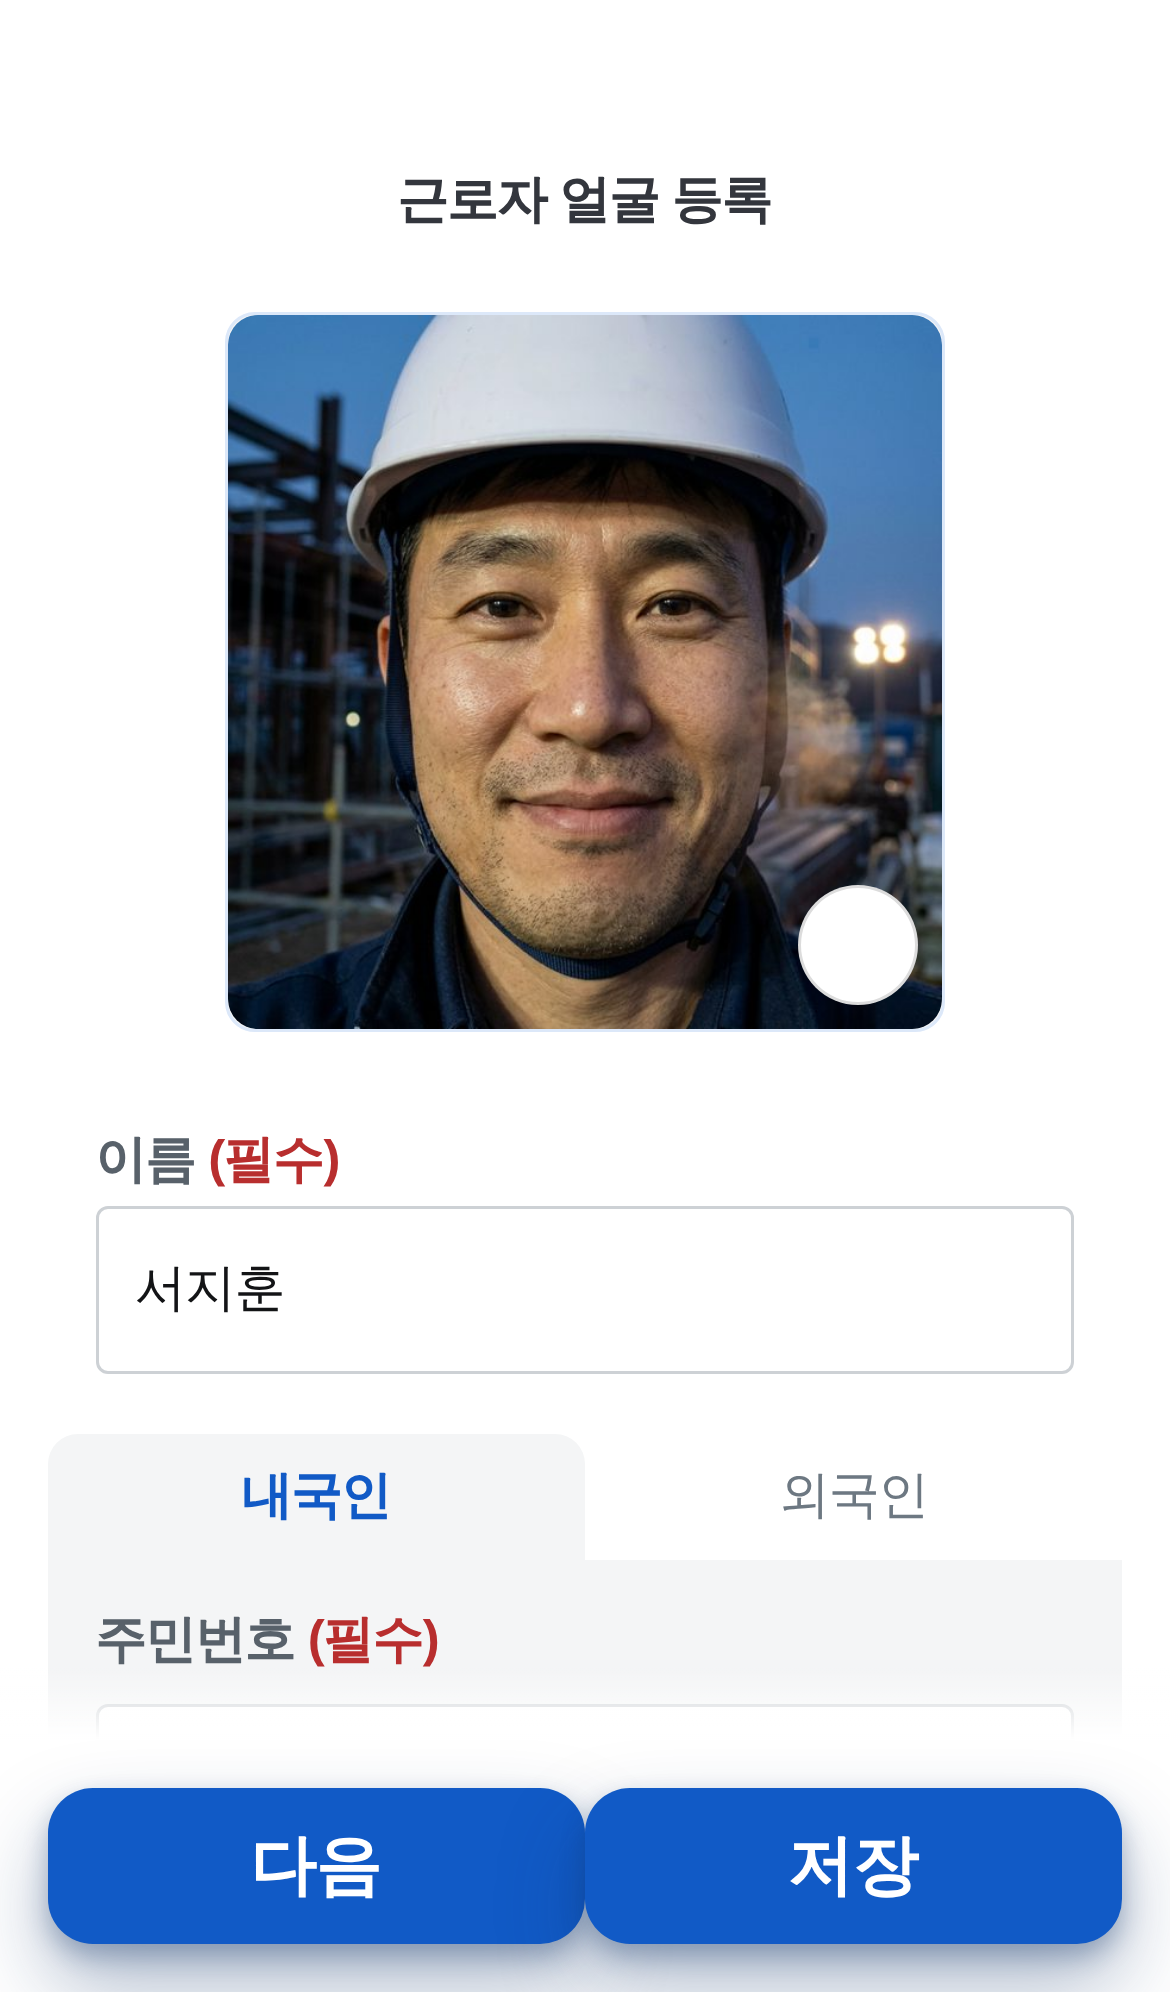
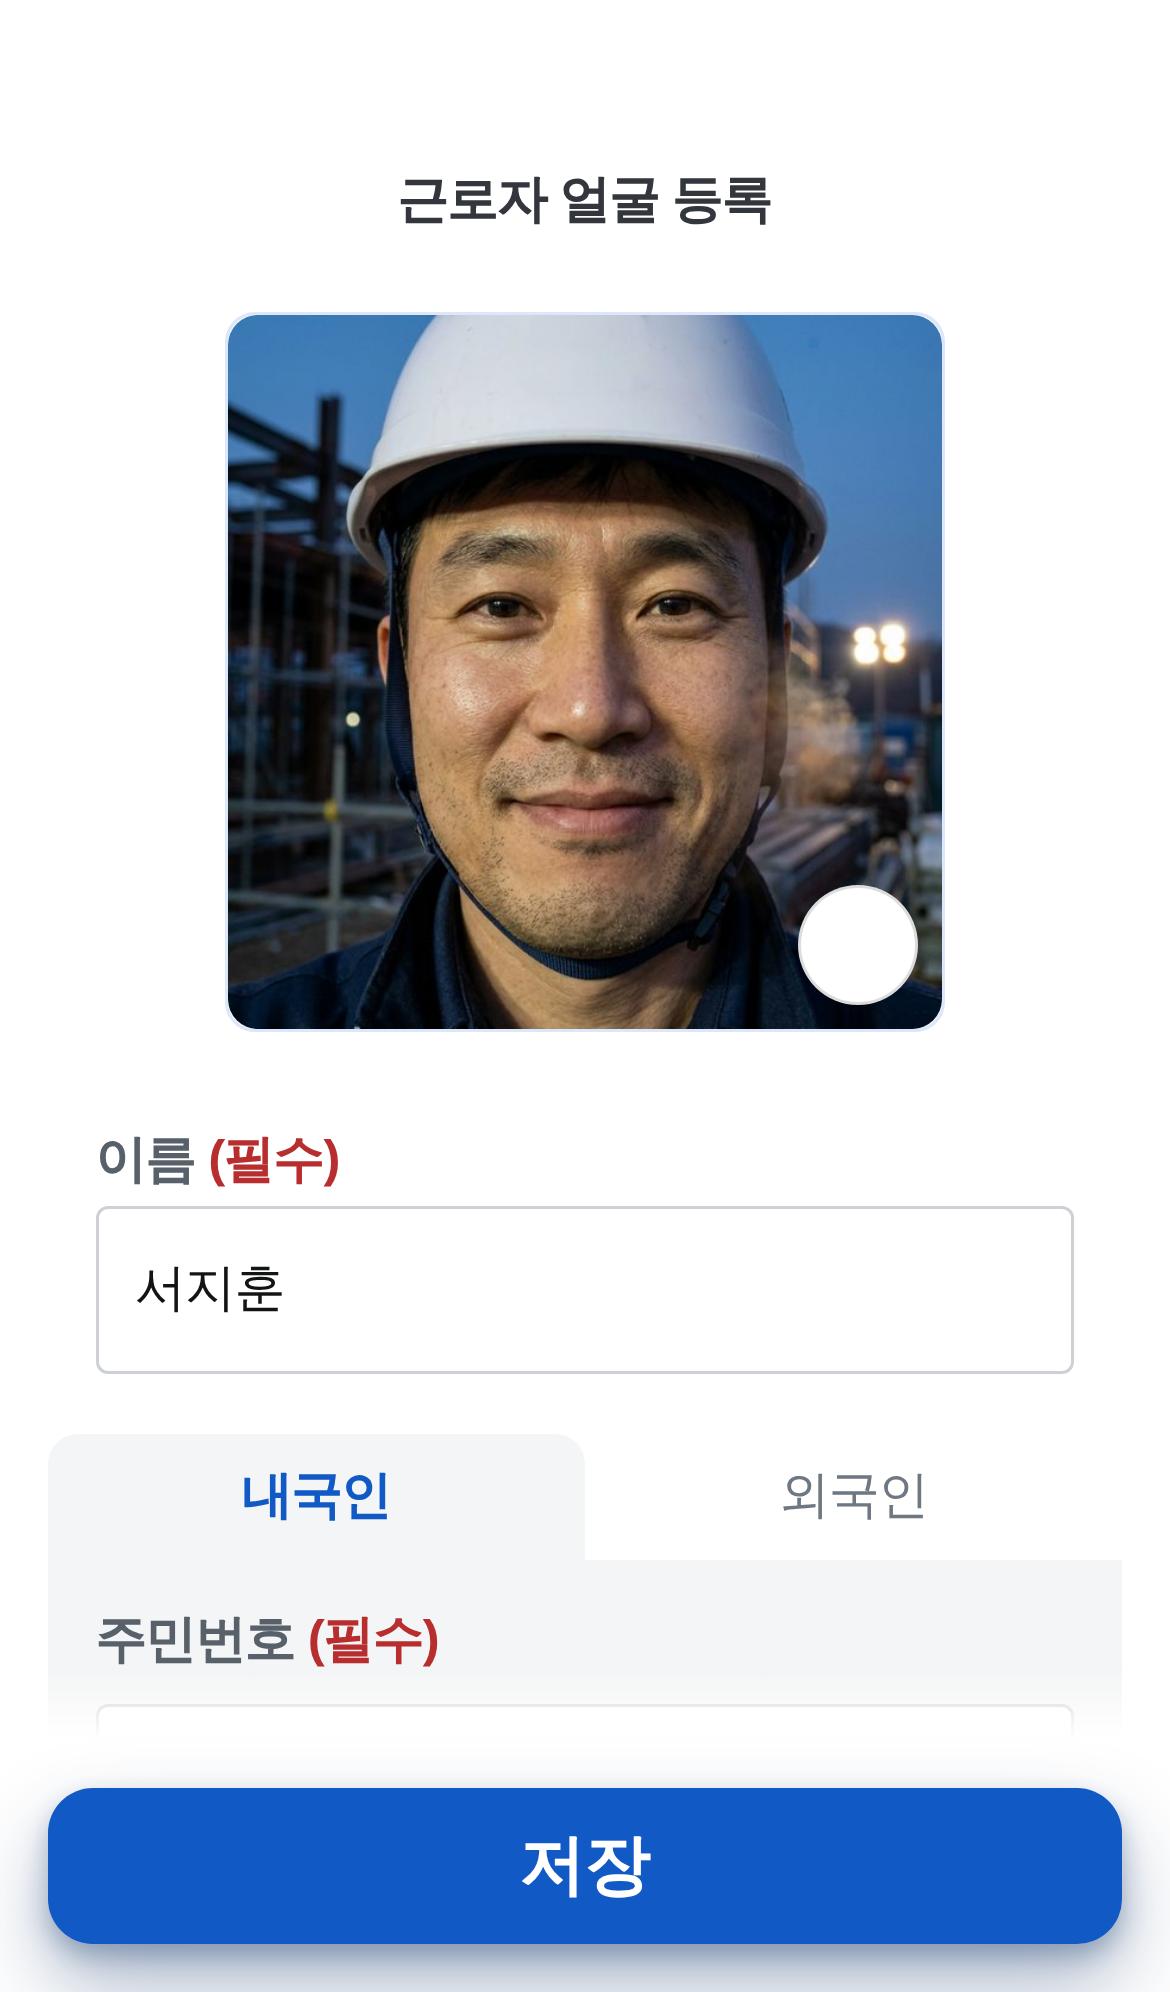
얼굴 차례는 그림이 바탕을 채우고, 할 일은 바닥 버튼 하나다
이 자리에서 할 일은 하나뿐이라 그림을 작은 카드에 가둘 까닭이 없다.
네모 테와 모서리를 걷고 본문을 다 쓴다.

- 묻는 말은 '근로자 얼굴을 / 등록해주세요' 두 줄이다.
- 카드 안의 글(얼굴 등록하기 · 터치 후…)은 걷는다 — 그 말은 바닥 버튼이
  하고 있어, 두면 한 화면에서 같은 말을 두 번 한다.
- 바닥 버튼이 '얼굴 등록하기' 다. 적은 것을 확인하는 버튼이 아니라 **할
  일**이라, 채울 것을 기다리지 않고 처음부터 보인다(다음 · 저장과 다르다).
- 받을 칸이 없으니 초점도 주지 않는다 — 기기 자판이 올라오지 않는다.

⚠ 빛은 **본문이 깐다**. 그림 칸에만 깔았더니 묻는 줄 아래에서 끊겨 가로로
금이 그어졌다 — 가장자리에서 화면 흰색으로 풀리게 두고, 본문 전체에 깐다.
⚠ 바닥 버튼은 flex 라 hidden 만으로는 안 덮인다(.act__b[hidden]) — 차례마다
서는 버튼이 달라, 셋이 한 줄에 나란히 섰다.

화면설명 — 규칙 11(보이지 않는 동작: 그림을 클릭해도 버튼과 같은 데로 가는
것, 자판이 올라오지 않는 것), 규칙 2(「없다」는 그 자리에 설 수 있었던
것만 — 다른 차례에서는 자판이 올라온다).

검사: 얼굴 차례 바탕 390×624 꽉 참 · 초점 없음 · 바닥 버튼 '얼굴 등록하기'
하나 · 나머지 여섯 자리 그대로 · validate ✅ · 앵커 110/76 탈 0 ·
anchback 186 · 0 · 흐름 끝까지 · cal__n--on 1

Claude-Session: https://claude.ai/code/session_01Mo5aPUH3u6bJkjNTNVj2HG

Changed region(s): [[0.4615, 0.8715, 0.5538, 0.996], [0.6769, 0.9026, 0.8, 0.9649], [0.2154, 0.9026, 0.3385, 0.9649]]

diff --git a/face-attendance-app.html b/face-attendance-app.html
@@ -1373,7 +1373,7 @@
          어디부터 손대야 하는지를 매번 고르게 된다 — 차례를 정해 하나씩 받고,
          그 뒤에 나머지를 연다. 보이는 줄은 지금 묻는 하나뿐이다(js 의 flow) -->
     <div class="flow__q" role="status" aria-live="polite">
-      <p class="flow__q__t" data-q="face">얼굴을 등록해 주세요</p>
+      <p class="flow__q__t" data-q="face">근로자 얼굴을<br>등록해주세요</p>
       <p class="flow__q__t" data-q="ireum">이름을 입력해 주세요</p>
       <p class="flow__q__t" data-q="idno">주민번호를 입력해 주세요</p>
       <p class="flow__q__t" data-q="yeonrak">연락처를 입력해 주세요</p>
@@ -1462,6 +1462,9 @@
        '눌러 봐야 아무 일도 없는 버튼' 이 내내 엄지 밑에 있다.
        자리는 처음부터 지킨다 — 덜어 내면 다 채운 뒤에 버튼이 솟아 화면이 뛴다 -->
   <div class="act act--float act--void" aria-hidden="true">
+    <!-- 얼굴 차례에는 이 버튼이 그 자리의 할 일이다 — 바탕을 채운 그림은
+         눌러도 같은 데로 가지만, 무엇을 하는 자리인지는 버튼이 말한다 -->
+    <button class="act__b act__b--on" type="button" data-act="face" data-go="m-ready" hidden>얼굴 등록하기</button>
     <button class="act__b act__b--on" type="button" data-act="next">다음</button>
     <button class="act__b act__b--on" type="button" data-act="save" hidden>저장</button>
   </div>
@@ -1496,7 +1499,7 @@
          어디부터 손대야 하는지를 매번 고르게 된다 — 차례를 정해 하나씩 받고,
          그 뒤에 나머지를 연다. 보이는 줄은 지금 묻는 하나뿐이다(js 의 flow) -->
     <div class="flow__q" role="status" aria-live="polite">
-      <p class="flow__q__t" data-q="face">얼굴을 등록해 주세요</p>
+      <p class="flow__q__t" data-q="face">근로자 얼굴을<br>등록해주세요</p>
       <p class="flow__q__t" data-q="ireum">이름을 입력해 주세요</p>
       <p class="flow__q__t" data-q="idno">주민번호를 입력해 주세요</p>
       <p class="flow__q__t" data-q="yeonrak">연락처를 입력해 주세요</p>
@@ -1548,6 +1551,9 @@
   </main>
 
   <div class="act act--float">
+    <!-- 얼굴 차례에는 이 버튼이 그 자리의 할 일이다 — 바탕을 채운 그림은
+         눌러도 같은 데로 가지만, 무엇을 하는 자리인지는 버튼이 말한다 -->
+    <button class="act__b act__b--on" type="button" data-act="face" data-go="m-ready" hidden>얼굴 등록하기</button>
     <button class="act__b act__b--on" type="button" data-act="next">다음</button>
     <button class="act__b act__b--on" type="button" data-act="save" hidden>저장</button>
   </div>
@@ -1572,7 +1578,7 @@
          어디부터 손대야 하는지를 매번 고르게 된다 — 차례를 정해 하나씩 받고,
          그 뒤에 나머지를 연다. 보이는 줄은 지금 묻는 하나뿐이다(js 의 flow) -->
     <div class="flow__q" role="status" aria-live="polite">
-      <p class="flow__q__t" data-q="face">얼굴을 등록해 주세요</p>
+      <p class="flow__q__t" data-q="face">근로자 얼굴을<br>등록해주세요</p>
       <p class="flow__q__t" data-q="ireum">이름을 입력해 주세요</p>
       <p class="flow__q__t" data-q="idno">외국인등록번호를 입력해 주세요</p>
       <p class="flow__q__t" data-q="yeonrak">연락처를 입력해 주세요</p>
@@ -1656,6 +1662,9 @@
        '눌러 봐야 아무 일도 없는 버튼' 이 내내 엄지 밑에 있다.
        자리는 처음부터 지킨다 — 덜어 내면 다 채운 뒤에 버튼이 솟아 화면이 뛴다 -->
   <div class="act act--float act--void" aria-hidden="true">
+    <!-- 얼굴 차례에는 이 버튼이 그 자리의 할 일이다 — 바탕을 채운 그림은
+         눌러도 같은 데로 가지만, 무엇을 하는 자리인지는 버튼이 말한다 -->
+    <button class="act__b act__b--on" type="button" data-act="face" data-go="m-ready" hidden>얼굴 등록하기</button>
     <button class="act__b act__b--on" type="button" data-act="next">다음</button>
     <button class="act__b act__b--on" type="button" data-act="save" hidden>저장</button>
   </div>
@@ -1688,7 +1697,7 @@
          어디부터 손대야 하는지를 매번 고르게 된다 — 차례를 정해 하나씩 받고,
          그 뒤에 나머지를 연다. 보이는 줄은 지금 묻는 하나뿐이다(js 의 flow) -->
     <div class="flow__q" role="status" aria-live="polite">
-      <p class="flow__q__t" data-q="face">얼굴을 등록해 주세요</p>
+      <p class="flow__q__t" data-q="face">근로자 얼굴을<br>등록해주세요</p>
       <p class="flow__q__t" data-q="ireum">이름을 입력해 주세요</p>
       <p class="flow__q__t" data-q="idno">여권번호와 생년월일을 입력해 주세요</p>
       <p class="flow__q__t" data-q="yeonrak">연락처를 입력해 주세요</p>
@@ -1779,6 +1788,9 @@
        '눌러 봐야 아무 일도 없는 버튼' 이 내내 엄지 밑에 있다.
        자리는 처음부터 지킨다 — 덜어 내면 다 채운 뒤에 버튼이 솟아 화면이 뛴다 -->
   <div class="act act--float act--void" aria-hidden="true">
+    <!-- 얼굴 차례에는 이 버튼이 그 자리의 할 일이다 — 바탕을 채운 그림은
+         눌러도 같은 데로 가지만, 무엇을 하는 자리인지는 버튼이 말한다 -->
+    <button class="act__b act__b--on" type="button" data-act="face" data-go="m-ready" hidden>얼굴 등록하기</button>
     <button class="act__b act__b--on" type="button" data-act="next">다음</button>
     <button class="act__b act__b--on" type="button" data-act="save" hidden>저장</button>
   </div>

diff --git a/assets/face-attendance-app.css b/assets/face-attendance-app.css
@@ -1450,6 +1450,9 @@ html.is-app,html.is-app body{overflow:hidden;overscroll-behavior:none}
    넓어져, 가운데에 선 덩어리가 내려앉는다(고르는 순간 사진이 뛴다).
    비워 둔 자리에는 화면 바탕만 깔리므로 눈에는 아무것도 없다 */
 .act--void{visibility:hidden}
+/* ⚠ 바닥 버튼은 flex 라 hidden 만으로는 안 덮인다 — 차례마다 서는 버튼이
+   달라지므로(얼굴 등록하기 · 다음 · 저장) 여기서 못 박는다 */
+.act__b[hidden]{display:none}
 
 /* ── 떠 있는 저장 ──
    폼의 저장은 변을 다 채운 바가 아니라 **떠 있는 버튼**이다. 바는 바닥을
@@ -2411,6 +2414,25 @@ html.is-app,html.is-app body{overflow:hidden;overscroll-behavior:none}
 /* ⚠ 형제 선택자는 **마크업 차례**를 본다 — 눈으로는 폼이 위에 있어도
    .shot + .form 은 그대로 걸린다. 묻는 동안에는 그 사이를 띄우지 않는다 */
 .is-flow .shot + .form{margin-top:0}
+/* ── 얼굴 차례 ──
+   이 자리에서 할 일은 하나뿐이라, 그림을 작은 카드에 가둘 까닭이 없다 —
+   **바탕을 꽉 채운다**. 네모 테와 모서리를 걷고 남은 자리를 다 쓴다.
+   카드 안의 글(얼굴 등록하기 · 터치 후…)은 걷는다. 그 말은 바닥 버튼이
+   하고 있어, 두면 한 화면에서 같은 말을 두 번 한다.
+   자판은 여기서 쓰지 않는다 — 받을 칸이 없다(js 의 flow 가 초점도 주지
+   않는다) */
+.is-ask-face .body{padding-inline:0;padding-bottom:0;
+  background:radial-gradient(circle at 50% 56%,
+    var(--ap-glow-in) 0,var(--ap-glow-out) 52%,var(--ap-g0) 100%)}
+.is-ask-face .flow__q{padding-inline:var(--ap-p6)}
+.is-ask-face .shot{flex:1;min-height:0}
+.is-ask-face .shot__box{width:100%;height:100%;border:0;border-radius:0;
+  justify-content:center;background:none}
+/* 그림도 자리를 받은 만큼 커진다 — 카드에 맞춰 둔 치수 그대로면 넓어진
+   바탕 한가운데에 조각처럼 남는다 */
+.is-ask-face .shot__box > .scan{top:50%;--ap-scan:min(calc(var(--ap-scan-base) * 2.2), 70vw)}
+.is-ask-face .shot__t,.is-ask-face .shot__hint{display:none}
+
 /* 묻는 줄은 넷을 다 적어 두고 **지금 것 하나만** 켠다 */
 .flow__q__t{display:none;font:var(--t-title1);letter-spacing:var(--ls-title1);
   word-break:keep-all;color:var(--ap-text)}
@@ -3996,6 +4018,7 @@ html.is-app,html.is-app body{overflow:hidden;overscroll-behavior:none}
      자랐었다 — 얼굴을 견주는 데 드는 크기는 화면 폭과 상관이 없다 */
   .photo--sm{width:240px;max-width:240px}
   .body{padding:var(--ap-p8)}
+  .is-ask-face .flow__q{padding-inline:var(--ap-p8)}
   /* 머리말 칸은 **본문 여백만큼** 되물린다 — 16 으로 박아 두었더니 여백이
      24 가 되는 이 폭에서 위와 옆에 8 씩 바탕이 남아, 흰 면이 머리줄에서
      끊겨 보였다(그라데이션이 머리줄 아래에서 시작했다) */

diff --git a/face-attendance-app-prototype.html b/face-attendance-app-prototype.html
@@ -236,12 +236,16 @@
       <button class="proto-nav-btn proto-nav-sub" type="button" data-scenario="m-worker-new"
         data-why="꼭 받아야 하는 넷을 한 번에 하나씩 받습니다. 넷을 한꺼번에 세워 두면 어디부터 손대야 하는지를 매번 고르게 됩니다.
 
-차례는 얼굴 · 이름 · 번호 · 연락처입니다. 얼굴이 맨 앞인 것은 그것이 이 제품이 하는 일이어서입니다 — 이름만 적힌 근로자는 출퇴근을 찍을 수 없습니다."
+차례는 얼굴 · 이름 · 번호 · 연락처입니다. 얼굴이 맨 앞인 것은 그것이 이 제품이 하는 일이어서입니다 — 이름만 적힌 근로자는 출퇴근을 찍을 수 없습니다.
+
+얼굴 차례만 꼴이 다릅니다. 여기서 할 일은 하나뿐이라 그림을 작은 카드에 가둘 까닭이 없어, 바탕을 채우고 할 일은 바닥 버튼 하나로 둡니다."
         data-steps="'근로자 얼굴 등록' 선택 후 초기 상태"
         data-look="
           |@{.flow__q__t.is-on} 묻는 말은 맨 위에 한 줄만 놓입니다 — 지금 받을 것 하나입니다
-          |@{.shot__box} 얼굴 등록하기 카드버튼은 얼굴을 스캔하는 애니메이션이 동작합니다. 클릭하면 얼굴 등록 온보딩으로 갑니다.
-          |이름 · 번호 · 연락처 칸은 아직 없습니다 — 얼굴을 등록해야 다음 질문이 열립니다">처음 열면</button>
+          |@{.shot__box} 얼굴을 스캔하는 애니메이션이 네모 테 없이 본문을 다 씁니다. 그림을 클릭해도 바닥 버튼과 같은 데로 갑니다
+          |@{.act__b} 바닥 버튼은 '얼굴 등록하기' 입니다. 클릭하면 얼굴 등록 온보딩으로 갑니다
+          |이름 · 번호 · 연락처 칸은 아직 없습니다 — 얼굴을 등록해야 다음 질문이 열립니다
+          |받을 칸이 없어 기기 자판도 올라오지 않습니다">처음 열면</button>
       <button class="proto-nav-btn proto-nav-sub" type="button" data-scenario="m-worker-new" data-q="step=2"
         data-why="얼굴이 등록되면 다음 질문이 바로 열립니다. '다음' 을 한 번 더 누르게 하지 않는 것은, 사진이 들어앉은 것이 곧 그 차례의 답이어서입니다."
         data-steps="등록 촬영 확인에서 '얼굴 등록하기' 를 클릭한 상태"

diff --git a/assets/face-attendance-app.js b/assets/face-attendance-app.js
@@ -1507,6 +1507,7 @@
     var parts = Array.prototype.slice.call(scr.querySelectorAll('[data-flow]'));
     var form = scr.querySelector('.form');
     var act = scr.querySelector('.act');
+    var bface = act && act.querySelector('[data-act="face"]');
     var bnext = act && act.querySelector('[data-act="next"]');
     var bsave = act && act.querySelector('[data-act="save"]');
 
@@ -1544,7 +1545,11 @@
 
     function see() {
       var done = at >= ASK.length;
+      var ask = done ? '' : ASK[at];
       scr.classList.toggle('is-flow', !done);
+      /* 얼굴 차례는 받을 칸이 없다 — 그림이 바탕을 채우고, 할 일은 바닥
+         버튼 하나다(css 의 .is-ask-face) */
+      scr.classList.toggle('is-ask-face', ask === 'face');
 
       box.querySelectorAll('.flow__q__t').forEach(function (t) {
         t.classList.toggle('is-on', !done && t.dataset.q === ASK[at]);
@@ -1560,8 +1565,11 @@
       });
 
       if (!act) return;
-      var ok = done ? ASK.every(full) : full(ASK[at]);
-      if (bnext) bnext.hidden = done;
+      /* 얼굴 차례의 버튼은 **적은 것을 확인하는 버튼이 아니라 할 일**이라,
+         채울 것을 기다리지 않고 처음부터 서 있다 */
+      var ok = done ? ASK.every(full) : (ask === 'face' || full(ask));
+      if (bface) bface.hidden = ask !== 'face';
+      if (bnext) bnext.hidden = done || ask === 'face';
       if (bsave) bsave.hidden = !done;
       act.classList.toggle('act--void', !ok);
       act.setAttribute('aria-hidden', ok ? 'false' : 'true');
